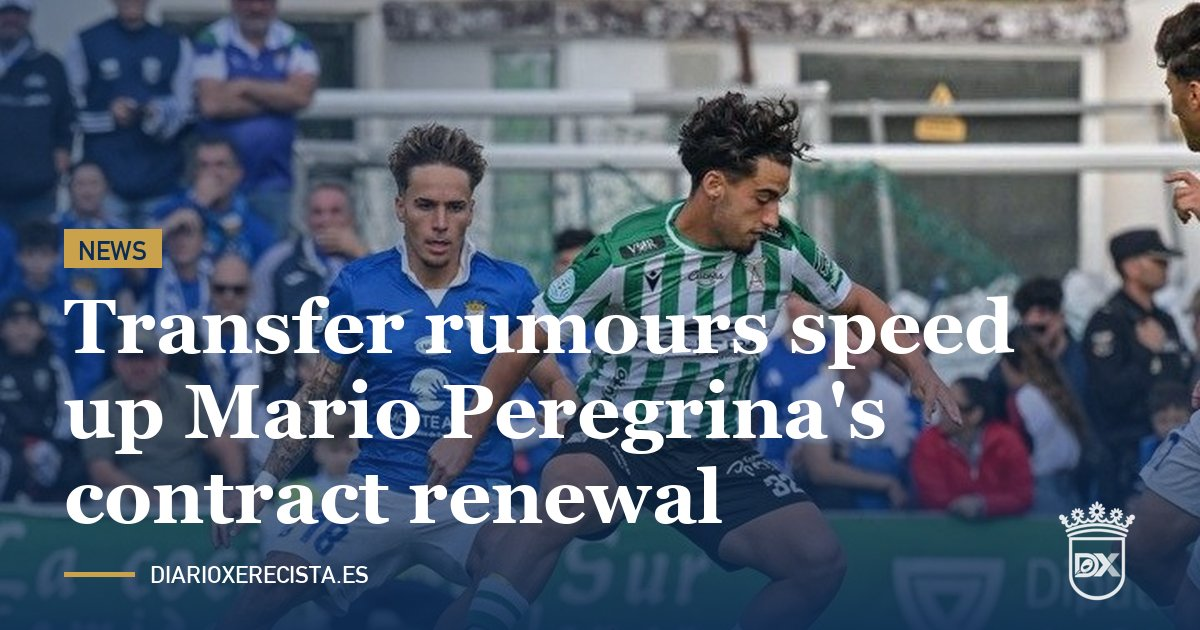
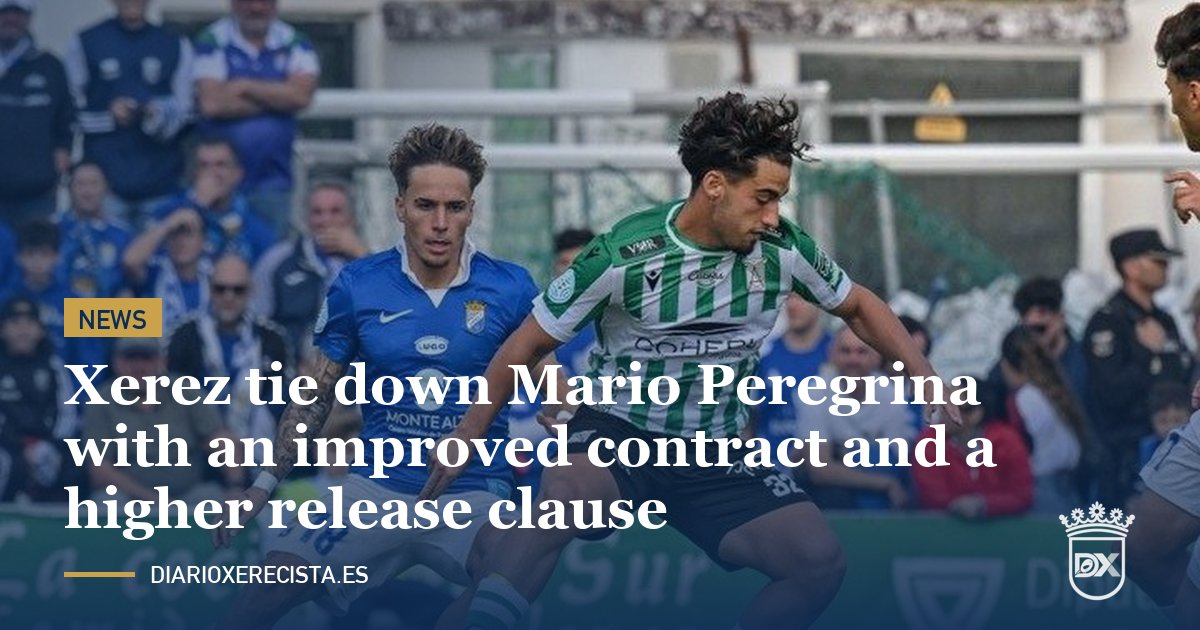
art147 actualizado: el Xerez blinda a Mario Peregrina (mejora de contrato y cláusula, según Diario de Jerez), ES+EN; nueva imagen de redes con v=2

Changed region(s): [[0.0308, 0.3619, 0.8633, 0.8746]]

diff --git a/noticias/articulos/2026-11/la-rumorologia-acelera-la-renovacion-de-mario-peregrina/index.html b/noticias/articulos/2026-11/la-rumorologia-acelera-la-renovacion-de-mario-peregrina/index.html
@@ -3,8 +3,8 @@
 <head>
 <meta charset="UTF-8">
 <meta name="viewport" content="width=device-width, initial-scale=1.0">
-<title>La rumorología acelera la renovación de Mario Peregrina | Diario Xerecista</title>
-<meta name="description" content="El club azulino quiere ampliar el contrato del mediapunta onubense, de 22 años, que termina el 30 de junio de 2027, después de que, según apuntan, el Espanyol B y varios clubes de Primera Federación se hayan interesado por él.">
+<title>El Xerez blinda a Mario Peregrina con una mejora de contrato y una cláusula más alta | Diario Xerecista</title>
+<meta name="description" content="El club azulino ha cerrado la renovación del mediapunta onubense, de 22 años, ante el interés de equipos de Primera Federación. Se espera que la operación se haga oficial en las próximas horas.">
 <meta name="robots" content="index, follow, max-snippet:-1, max-image-preview:large">
 <link rel="canonical" href="https://www.diarioxerecista.es/noticias/articulos/2026-11/la-rumorologia-acelera-la-renovacion-de-mario-peregrina/">
 <link rel="alternate" hreflang="es" href="https://www.diarioxerecista.es/noticias/articulos/2026-11/la-rumorologia-acelera-la-renovacion-de-mario-peregrina/">
@@ -13,8 +13,8 @@
 
 <meta property="og:type" content="article">
 <meta property="og:site_name" content="Diario Xerecista">
-<meta property="og:title" content="La rumorología acelera la renovación de Mario Peregrina">
-<meta property="og:description" content="El club azulino quiere ampliar el contrato del mediapunta onubense, de 22 años, que termina el 30 de junio de 2027, después de que, según apuntan, el Espanyol B y varios clubes de Primera Federación se hayan interesado por él.">
+<meta property="og:title" content="El Xerez blinda a Mario Peregrina con una mejora de contrato y una cláusula más alta">
+<meta property="og:description" content="El club azulino ha cerrado la renovación del mediapunta onubense, de 22 años, ante el interés de equipos de Primera Federación. Se espera que la operación se haga oficial en las próximas horas.">
 <meta property="og:url" content="https://www.diarioxerecista.es/noticias/articulos/2026-11/la-rumorologia-acelera-la-renovacion-de-mario-peregrina/">
 <meta property="og:image" content="https://www.diarioxerecista.es/fotos/redes/art147-es.jpg">
 <meta property="og:image:width" content="1200">
@@ -22,8 +22,8 @@
 <meta property="og:locale" content="es_ES">
 
 <meta name="twitter:card" content="summary_large_image">
-<meta name="twitter:title" content="La rumorología acelera la renovación de Mario Peregrina">
-<meta name="twitter:description" content="El club azulino quiere ampliar el contrato del mediapunta onubense, de 22 años, que termina el 30 de junio de 2027, después de que, según apuntan, el Espanyol B y varios clubes de Primera Federación se hayan interesado por él.">
+<meta name="twitter:title" content="El Xerez blinda a Mario Peregrina con una mejora de contrato y una cláusula más alta">
+<meta name="twitter:description" content="El club azulino ha cerrado la renovación del mediapunta onubense, de 22 años, ante el interés de equipos de Primera Federación. Se espera que la operación se haga oficial en las próximas horas.">
 <meta name="twitter:image" content="https://www.diarioxerecista.es/fotos/redes/art147-es.jpg">
 
 <link rel="preconnect" href="https://fonts.googleapis.com">
@@ -35,8 +35,8 @@
 {
   "@context": "https://schema.org",
   "@type": "NewsArticle",
-  "headline": "La rumorología acelera la renovación de Mario Peregrina",
-  "description": "El club azulino quiere ampliar el contrato del mediapunta onubense, de 22 años, que termina el 30 de junio de 2027, después de que, según apuntan, el Espanyol B y varios clubes de Primera Federación se hayan interesado por él.",
+  "headline": "El Xerez blinda a Mario Peregrina con una mejora de contrato y una cláusula más alta",
+  "description": "El club azulino ha cerrado la renovación del mediapunta onubense, de 22 años, ante el interés de equipos de Primera Federación. Se espera que la operación se haga oficial en las próximas horas.",
   "image": [
     "https://www.diarioxerecista.es/fotos/publicadas/sanluqueno-xerez-j10-peregrina-conduccion.jpg"
   ],
@@ -78,28 +78,28 @@
 
   <main class="n-article">
     <span class="eyebrow">Xerez CD · Mercado</span>
-    <h1>La rumorología acelera la renovación de Mario Peregrina</h1>
+    <h1>El Xerez blinda a Mario Peregrina con una mejora de contrato y una cláusula más alta</h1>
 
     <div class="n-photo">
       <img src="../../../../fotos/publicadas/sanluqueno-xerez-j10-peregrina-conduccion.jpg" alt="Mario Peregrina, del Xerez CD, presiona a un jugador del Atlético Sanluqueño" loading="lazy">
       <span class="n-credit">Foto: Diario Xerecista</span>
     </div>
 
-    <p class="lead">El club azulino quiere ampliar el contrato del mediapunta onubense, de 22 años, que termina el 30 de junio de 2027, después de que, según apuntan, el Espanyol B y varios clubes de Primera Federación se hayan interesado por él.</p>
+    <p class="lead">El club azulino ha cerrado la renovación del mediapunta onubense, de 22 años, ante el interés de equipos de Primera Federación. Se espera que la operación se haga oficial en las próximas horas.</p>
 
-    <p>El Xerez CD ha acelerado las conversaciones para renovar a Mario Peregrina. Según apuntan, el Espanyol B y varios equipos de Primera Federación se habrían interesado por el centrocampista. Su contrato actual con el club azulino termina el 30 de junio de 2027.</p>
+    <p>El Xerez CD ha atado a Mario Peregrina. Según informa el compañero David Sánchez, de Diario de Jerez, el club cerró hace unos días una mejora del contrato del centrocampista que incluye una subida importante de su cláusula de rescisión. Se espera que la renovación se anuncie de forma oficial en las próximas horas.</p>
 
-    <p>Peregrina, nacido en Minas de Riotinto (Huelva) el 8 de febrero de 2004, llegó al Xerez el pasado 29 de julio procedente del Córdoba CF B, donde jugó tras formarse en la cantera del Real Betis. Lleva el dorsal 18.</p>
+    <p>La entidad azulina ha actuado con rapidez ante el interés de varios equipos de Primera Federación. Según apuntó el periodista Ángel García, un filial del Grupo 2 de la categoría de bronce sigue de cerca al jugador. Aunque en el club confían en que Peregrina termine la temporada en Chapín, no se descarta que un equipo de categoría superior pague la cláusula.</p>
 
-    <h2>Fijo en el once</h2>
+    <h2>Pieza clave con Segovia</h2>
 
-    <p>El mediapunta se ha hecho un sitio en el equipo de Abel Segovia. Fue titular en las últimas jornadas ante el Atlético Sanluqueño, el Antoniano y el Atlético Central. Ante el Antoniano marcó el 2-0 en el minuto 44, su primer gol en liga, y en Alcalá de Guadaíra dio un gran pase a Rubén Mesa y obligó a Santos a lucirse con un disparo raso.</p>
+    <p>Peregrina, nacido en Minas de Riotinto (Huelva) en 2004, llegó este verano procedente del Córdoba CF B tras formarse en la cantera del Real Betis. No empezó la temporada como titular, pero con la llegada de Abel Segovia al banquillo se ha hecho fijo en el once. Según los datos que recoge Diario de Jerez, encadena siete titularidades consecutivas y suma 680 minutos entre Liga y Copa. Ante el Antoniano marcó su primer gol en liga y el pasado domingo, en Alcalá de Guadaíra, volvió a ser de los mejores del equipo en los 66 minutos que jugó.</p>
 
-    <p>El Xerez, segundo en la clasificación con cinco victorias consecutivas, pretende así blindar a uno de los jugadores jóvenes con más proyección de su plantilla.</p>
+    <p>El propio jugador quiso restar importancia a los rumores hace unos días, en rueda de prensa: aseguró estar "muy tranquilo, muy contento aquí" y centrado en "tirar hacia arriba con el Xerez".</p>
 
     <div class="n-meta-row">
       <span class="byline">Redacción — 23 de noviembre de 2026</span>
-      <a href="https://x.com/intent/tweet?text=La%20rumorolog%C3%ADa%20acelera%20la%20renovaci%C3%B3n%20de%20Mario%20Peregrina%0A%0Ahttps%3A%2F%2Fwww.diarioxerecista.es%2Fnoticias%2Farticulos%2F2026-11%2Fla-rumorologia-acelera-la-renovacion-de-mario-peregrina%2F%0A%0A%23XerezCD" target="_blank" rel="noopener" class="share-x-btn">Compartir en 𝕏</a>
+      <a href="https://x.com/intent/tweet?text=El%20Xerez%20blinda%20a%20Mario%20Peregrina%20con%20una%20mejora%20de%20contrato%20y%20una%20cl%C3%A1usula%20m%C3%A1s%20alta%0A%0Ahttps%3A%2F%2Fwww.diarioxerecista.es%2Fnoticias%2Farticulos%2F2026-11%2Fla-rumorologia-acelera-la-renovacion-de-mario-peregrina%2F%3Fv%3D2%0A%0A%23XerezCD" target="_blank" rel="noopener" class="share-x-btn">Compartir en 𝕏</a>
     </div>
 
     <a class="back-link" href="../../../../en/noticias/articulos/2026-11/transfer-rumours-speed-up-mario-peregrinas-contract-renewal/" style="display:block;margin-bottom:10px;">🇬🇧 Read in English</a>

diff --git a/en/noticias/articulos/2026-11/transfer-rumours-speed-up-mario-peregrinas-contract-renewal/index.html b/en/noticias/articulos/2026-11/transfer-rumours-speed-up-mario-peregrinas-contract-renewal/index.html
@@ -3,8 +3,8 @@
 <head>
 <meta charset="UTF-8">
 <meta name="viewport" content="width=device-width, initial-scale=1.0">
-<title>Transfer rumours speed up Mario Peregrina's contract renewal | Diario Xerecista</title>
-<meta name="description" content="The club want to extend the contract of the 22-year-old attacking midfielder from Huelva, which runs until 30 June 2027, after Espanyol B and several Primera Federación clubs are said to have shown interest in him.">
+<title>Xerez tie down Mario Peregrina with an improved contract and a higher release clause | Diario Xerecista</title>
+<meta name="description" content="The club have agreed a new deal with the 22-year-old attacking midfielder from Huelva amid interest from Primera Federación sides. The move is expected to be made official in the coming hours.">
 <meta name="robots" content="index, follow, max-snippet:-1, max-image-preview:large">
 <link rel="canonical" href="https://www.diarioxerecista.es/en/noticias/articulos/2026-11/transfer-rumours-speed-up-mario-peregrinas-contract-renewal/">
 <link rel="alternate" hreflang="es" href="https://www.diarioxerecista.es/noticias/articulos/2026-11/la-rumorologia-acelera-la-renovacion-de-mario-peregrina/">
@@ -13,8 +13,8 @@
 
 <meta property="og:type" content="article">
 <meta property="og:site_name" content="Diario Xerecista">
-<meta property="og:title" content="Transfer rumours speed up Mario Peregrina's contract renewal">
-<meta property="og:description" content="The club want to extend the contract of the 22-year-old attacking midfielder from Huelva, which runs until 30 June 2027, after Espanyol B and several Primera Federación clubs are said to have shown interest in him.">
+<meta property="og:title" content="Xerez tie down Mario Peregrina with an improved contract and a higher release clause">
+<meta property="og:description" content="The club have agreed a new deal with the 22-year-old attacking midfielder from Huelva amid interest from Primera Federación sides. The move is expected to be made official in the coming hours.">
 <meta property="og:url" content="https://www.diarioxerecista.es/en/noticias/articulos/2026-11/transfer-rumours-speed-up-mario-peregrinas-contract-renewal/">
 <meta property="og:image" content="https://www.diarioxerecista.es/fotos/redes/art147-en.jpg">
 <meta property="og:image:width" content="1200">
@@ -22,8 +22,8 @@
 <meta property="og:locale" content="en_GB">
 
 <meta name="twitter:card" content="summary_large_image">
-<meta name="twitter:title" content="Transfer rumours speed up Mario Peregrina's contract renewal">
-<meta name="twitter:description" content="The club want to extend the contract of the 22-year-old attacking midfielder from Huelva, which runs until 30 June 2027, after Espanyol B and several Primera Federación clubs are said to have shown interest in him.">
+<meta name="twitter:title" content="Xerez tie down Mario Peregrina with an improved contract and a higher release clause">
+<meta name="twitter:description" content="The club have agreed a new deal with the 22-year-old attacking midfielder from Huelva amid interest from Primera Federación sides. The move is expected to be made official in the coming hours.">
 <meta name="twitter:image" content="https://www.diarioxerecista.es/fotos/redes/art147-en.jpg">
 
 <link rel="preconnect" href="https://fonts.googleapis.com">
@@ -35,8 +35,8 @@
 {
   "@context": "https://schema.org",
   "@type": "NewsArticle",
-  "headline": "Transfer rumours speed up Mario Peregrina's contract renewal",
-  "description": "The club want to extend the contract of the 22-year-old attacking midfielder from Huelva, which runs until 30 June 2027, after Espanyol B and several Primera Federación clubs are said to have shown interest in him.",
+  "headline": "Xerez tie down Mario Peregrina with an improved contract and a higher release clause",
+  "description": "The club have agreed a new deal with the 22-year-old attacking midfielder from Huelva amid interest from Primera Federación sides. The move is expected to be made official in the coming hours.",
   "image": [
     "https://www.diarioxerecista.es/fotos/publicadas/sanluqueno-xerez-j10-peregrina-conduccion.jpg"
   ],
@@ -78,28 +78,28 @@
 
   <main class="n-article">
     <span class="eyebrow">Xerez CD · Transfers</span>
-    <h1>Transfer rumours speed up Mario Peregrina's contract renewal</h1>
+    <h1>Xerez tie down Mario Peregrina with an improved contract and a higher release clause</h1>
 
     <div class="n-photo">
       <img src="../../../../../fotos/publicadas/sanluqueno-xerez-j10-peregrina-conduccion.jpg" alt="Mario Peregrina, of Xerez CD, presses an Atlético Sanluqueño player" loading="lazy">
       <span class="n-credit">Photo: Diario Xerecista</span>
     </div>
 
-    <p class="lead">The club want to extend the contract of the 22-year-old attacking midfielder from Huelva, which runs until 30 June 2027, after Espanyol B and several Primera Federación clubs are said to have shown interest in him.</p>
+    <p class="lead">The club have agreed a new deal with the 22-year-old attacking midfielder from Huelva amid interest from Primera Federación sides. The move is expected to be made official in the coming hours.</p>
 
-    <p>Xerez CD have stepped up talks to renew Mario Peregrina. According to reports, Espanyol B and several Primera Federación sides are said to be interested in the midfielder. His current contract with the club runs until 30 June 2027.</p>
+    <p>Xerez CD have tied down Mario Peregrina. According to our colleague David Sánchez of Diario de Jerez, the club agreed an improved contract for the midfielder a few days ago, including a significant rise in his release clause. The renewal is expected to be announced officially in the coming hours.</p>
 
-    <p>Peregrina, born in Minas de Riotinto (Huelva) on 8 February 2004, joined Xerez on 29 July from Córdoba CF B, where he played after coming through the Real Betis academy. He wears the number 18 shirt.</p>
+    <p>The club moved quickly in response to interest from several Primera Federación sides. According to journalist Ángel García, a reserve team from Group 2 of the third tier is keeping a close eye on the player. Although the club are confident Peregrina will finish the season at Chapín, they do not rule out a higher-division side paying the clause.</p>
 
-    <h2>A regular starter</h2>
+    <h2>A key piece under Segovia</h2>
 
-    <p>The attacking midfielder has earned a place in Abel Segovia's side. He started the last few matches against Atlético Sanluqueño, Antoniano and Atlético Central. Against Antoniano he scored the second goal in the 44th minute, his first league goal, and in Alcalá de Guadaíra he played a fine pass to Rubén Mesa and forced Santos into a good save with a low shot.</p>
+    <p>Peregrina, born in Minas de Riotinto (Huelva) in 2004, arrived this summer from Córdoba CF B after coming through the Real Betis academy. He did not start the season in the starting line-up, but since Abel Segovia took over he has become a regular. According to figures reported by Diario de Jerez, he has made seven consecutive starts and played 680 minutes across the league and the cup. Against Antoniano he scored his first league goal, and last Sunday in Alcalá de Guadaíra he was again one of the team's best players in his 66 minutes on the pitch.</p>
 
-    <p>Xerez, second in the table after five straight wins, are looking to tie down one of the young players with the most potential in their squad.</p>
+    <p>The player himself played down the rumours a few days ago at a press conference, saying he was "very calm, very happy here" and focused on "pushing upwards with Xerez".</p>
 
     <div class="n-meta-row">
       <span class="byline">Newsroom — 23 November 2026</span>
-      <a href="https://x.com/intent/tweet?text=Transfer%20rumours%20speed%20up%20Mario%20Peregrina%27s%20contract%20renewal%0A%0Ahttps%3A%2F%2Fwww.diarioxerecista.es%2Fen%2Fnoticias%2Farticulos%2F2026-11%2Ftransfer-rumours-speed-up-mario-peregrinas-contract-renewal%2F%0A%0A%23XerezCD" target="_blank" rel="noopener" class="share-x-btn">Share on 𝕏</a>
+      <a href="https://x.com/intent/tweet?text=Xerez%20tie%20down%20Mario%20Peregrina%20with%20an%20improved%20contract%20and%20a%20higher%20release%20clause%0A%0Ahttps%3A%2F%2Fwww.diarioxerecista.es%2Fen%2Fnoticias%2Farticulos%2F2026-11%2Ftransfer-rumours-speed-up-mario-peregrinas-contract-renewal%2F%3Fv%3D2%0A%0A%23XerezCD" target="_blank" rel="noopener" class="share-x-btn">Share on 𝕏</a>
     </div>
 
     <a class="back-link" href="../../../../../noticias/articulos/2026-11/la-rumorologia-acelera-la-renovacion-de-mario-peregrina/" style="display:block;margin-bottom:10px;">🇪🇸 Leer en español</a>

diff --git a/index.html b/index.html
@@ -1684,7 +1684,7 @@
       <!-- TITULARES-INICIO (no editar a mano: python3 -I scripts/titulares_portada.py) -->
       <article class="card"><span class="eyebrow">Segunda RFEF · Jornada 13</span><h4><a class="tit-link" href="/noticias/articulos/2026-11/el-linares-llega-a-chapin-tras-ocho-jornadas-sin-perder/">El Linares llega a Chapín tras ocho jornadas sin perder</a></h4><p>El Xerez CD, segundo con cinco victorias seguidas, recibe el domingo 29 de noviembre a las 18:00 al Linares Deportivo, sexto a un punto y uno de los equipos más en forma del grupo.</p></article>
       <article class="card"><span class="eyebrow">Xerez CD · Estadística</span><h4><a class="tit-link" href="/noticias/articulos/2026-11/el-xerez-suma-diez-palos-en-las-doce-primeras-jornadas-de-liga/">El Xerez suma diez palos en las doce primeras jornadas de liga</a></h4><p>El equipo azulino ha estrellado diez balones en la madera en lo que va de campeonato, una cifra que le ha costado puntos en el arranque de la temporada pese a que ahora es segundo en la clasificación.</p></article>
-      <article class="card"><span class="eyebrow">Xerez CD · Mercado</span><h4><a class="tit-link" href="/noticias/articulos/2026-11/la-rumorologia-acelera-la-renovacion-de-mario-peregrina/">La rumorología acelera la renovación de Mario Peregrina</a></h4><p>El club azulino quiere ampliar el contrato del mediapunta onubense, de 22 años, que termina el 30 de junio de 2027, después de que, según apuntan, el Espanyol B y varios clubes de Primera Federación se hayan interesado por él.</p></article>
+      <article class="card"><span class="eyebrow">Xerez CD · Mercado</span><h4><a class="tit-link" href="/noticias/articulos/2026-11/la-rumorologia-acelera-la-renovacion-de-mario-peregrina/">El Xerez blinda a Mario Peregrina con una mejora de contrato y una cláusula más alta</a></h4><p>El club azulino ha cerrado la renovación del mediapunta onubense, de 22 años, ante el interés de equipos de Primera Federación. Se espera que la operación se haga oficial en las próximas horas.</p></article>
       <article class="card"><span class="eyebrow">Segunda RFEF · Jornada 12</span><h4><a class="tit-link" href="/noticias/articulos/2026-11/el-recreativo-golea-al-badajoz-y-el-xerez-escala-a-la-segunda-plaza/">El Recreativo golea al Badajoz y el Xerez escala a la segunda plaza</a></h4><p>El líder endosó un 7-0 al Badajoz en la jornada más llamativa de la temporada, en la que el Xerez, con su quinta victoria consecutiva, se aupó a la segunda posición a falta de los dos partidos aplazados.</p></article>
       <article class="card"><span class="eyebrow">Xerez CD · Declaraciones de Abel Segovia</span><h4><a class="tit-link" href="/noticias/articulos/2026-11/abel-segovia-superorgulloso-de-un-equipo-que-suple-las-bajas/">Abel Segovia, «superorgulloso» de un equipo que suple las bajas</a></h4><p>El entrenador del Xerez CD cree que el 0-2 ante el Atlético Central se quedó corto, destaca que el equipo cubrió cuatro bajas y elogia a los más de 1.000 aficionados que viajaron a Alcalá de Guadaíra.</p></article>
       <article class="card"><span class="eyebrow">Crónica · Jornada 12</span><h4><a class="tit-link" href="/noticias/cronicas/2026-11/un-xerez-intratable-se-afianza-en-la-zona-alta-de-la-tabla/">Un Xerez intratable se afianza en la zona alta de la tabla (0-2)</a></h4><p>Los goles de Chacartegui y Zeki en la primera parte dan al equipo de Abel Segovia su quinta victoria seguida en el campo del Atlético Central, que solo había encajado un gol en casa. Más de 1.000 xerecistas llenaron la grada de Preferencia.</p></article>
